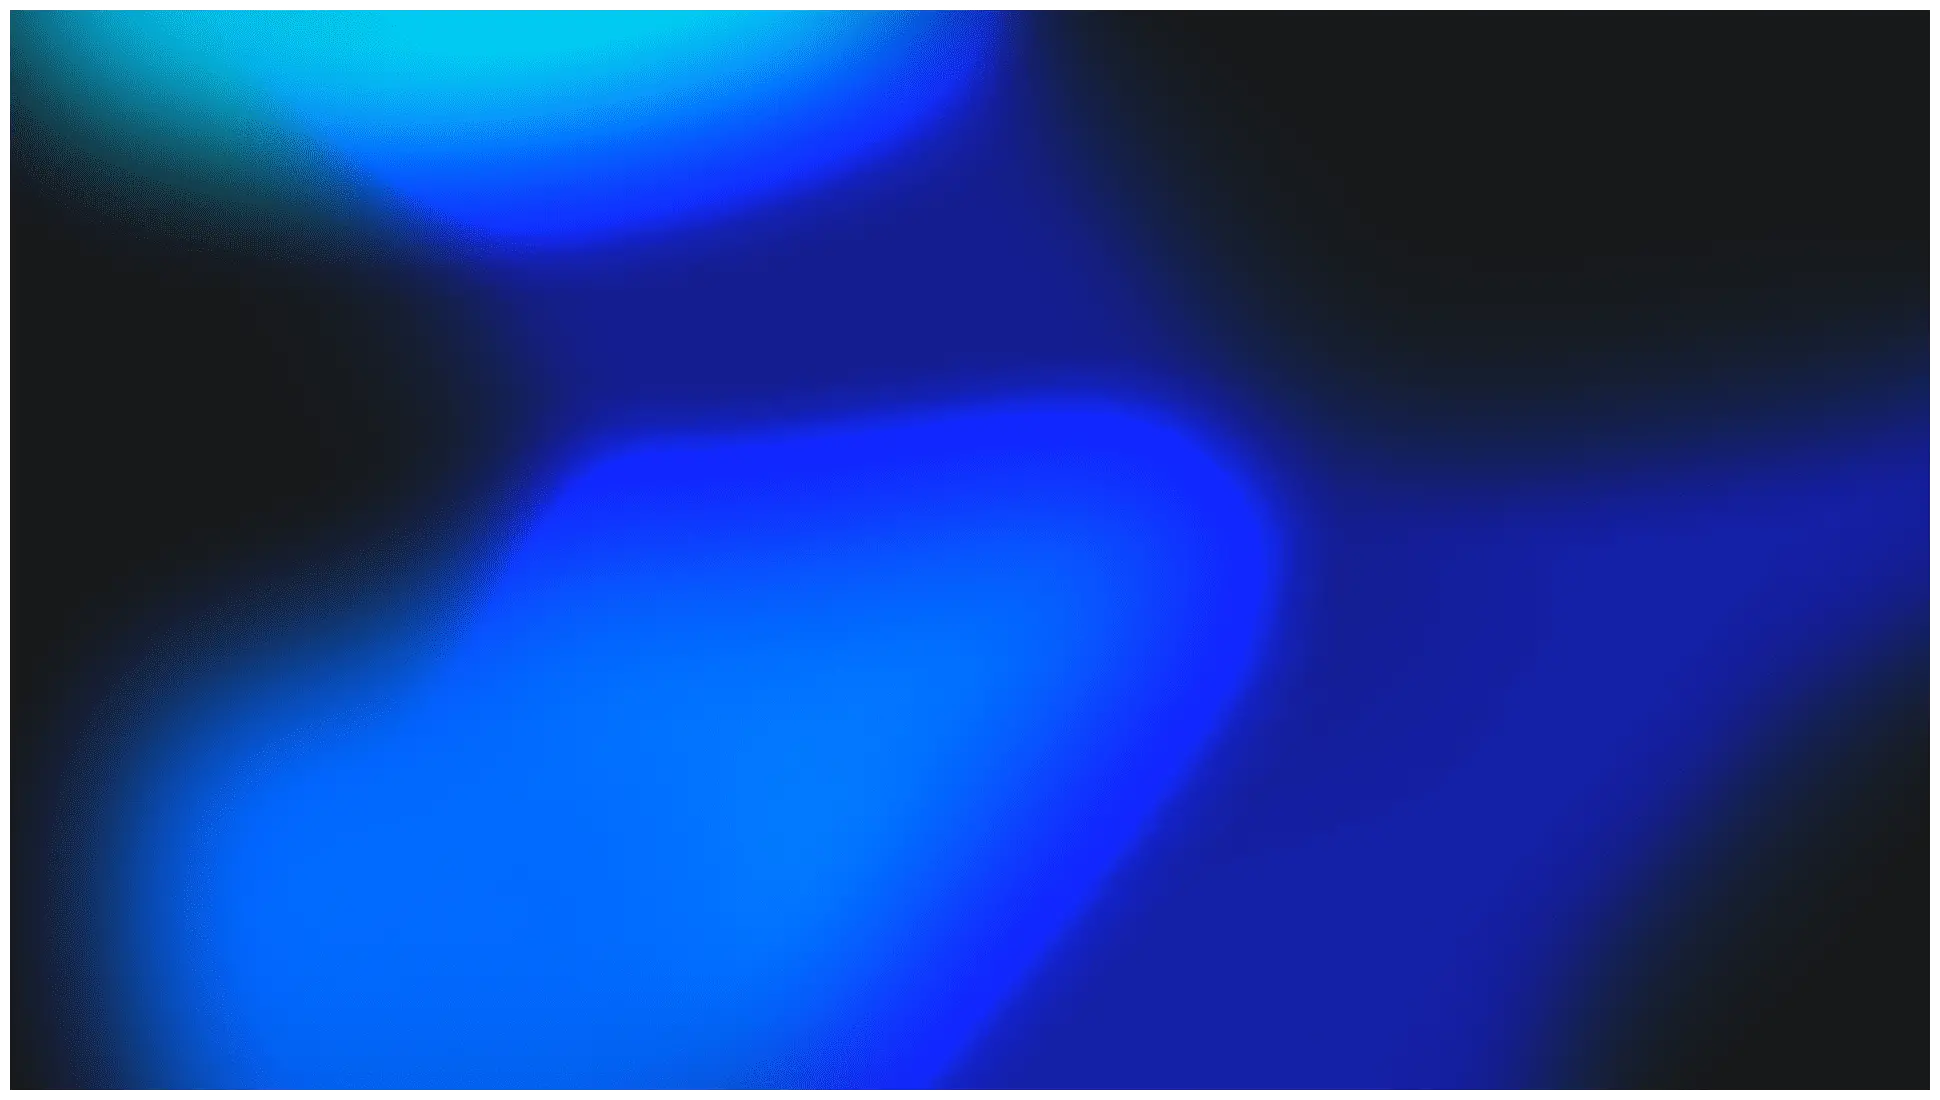
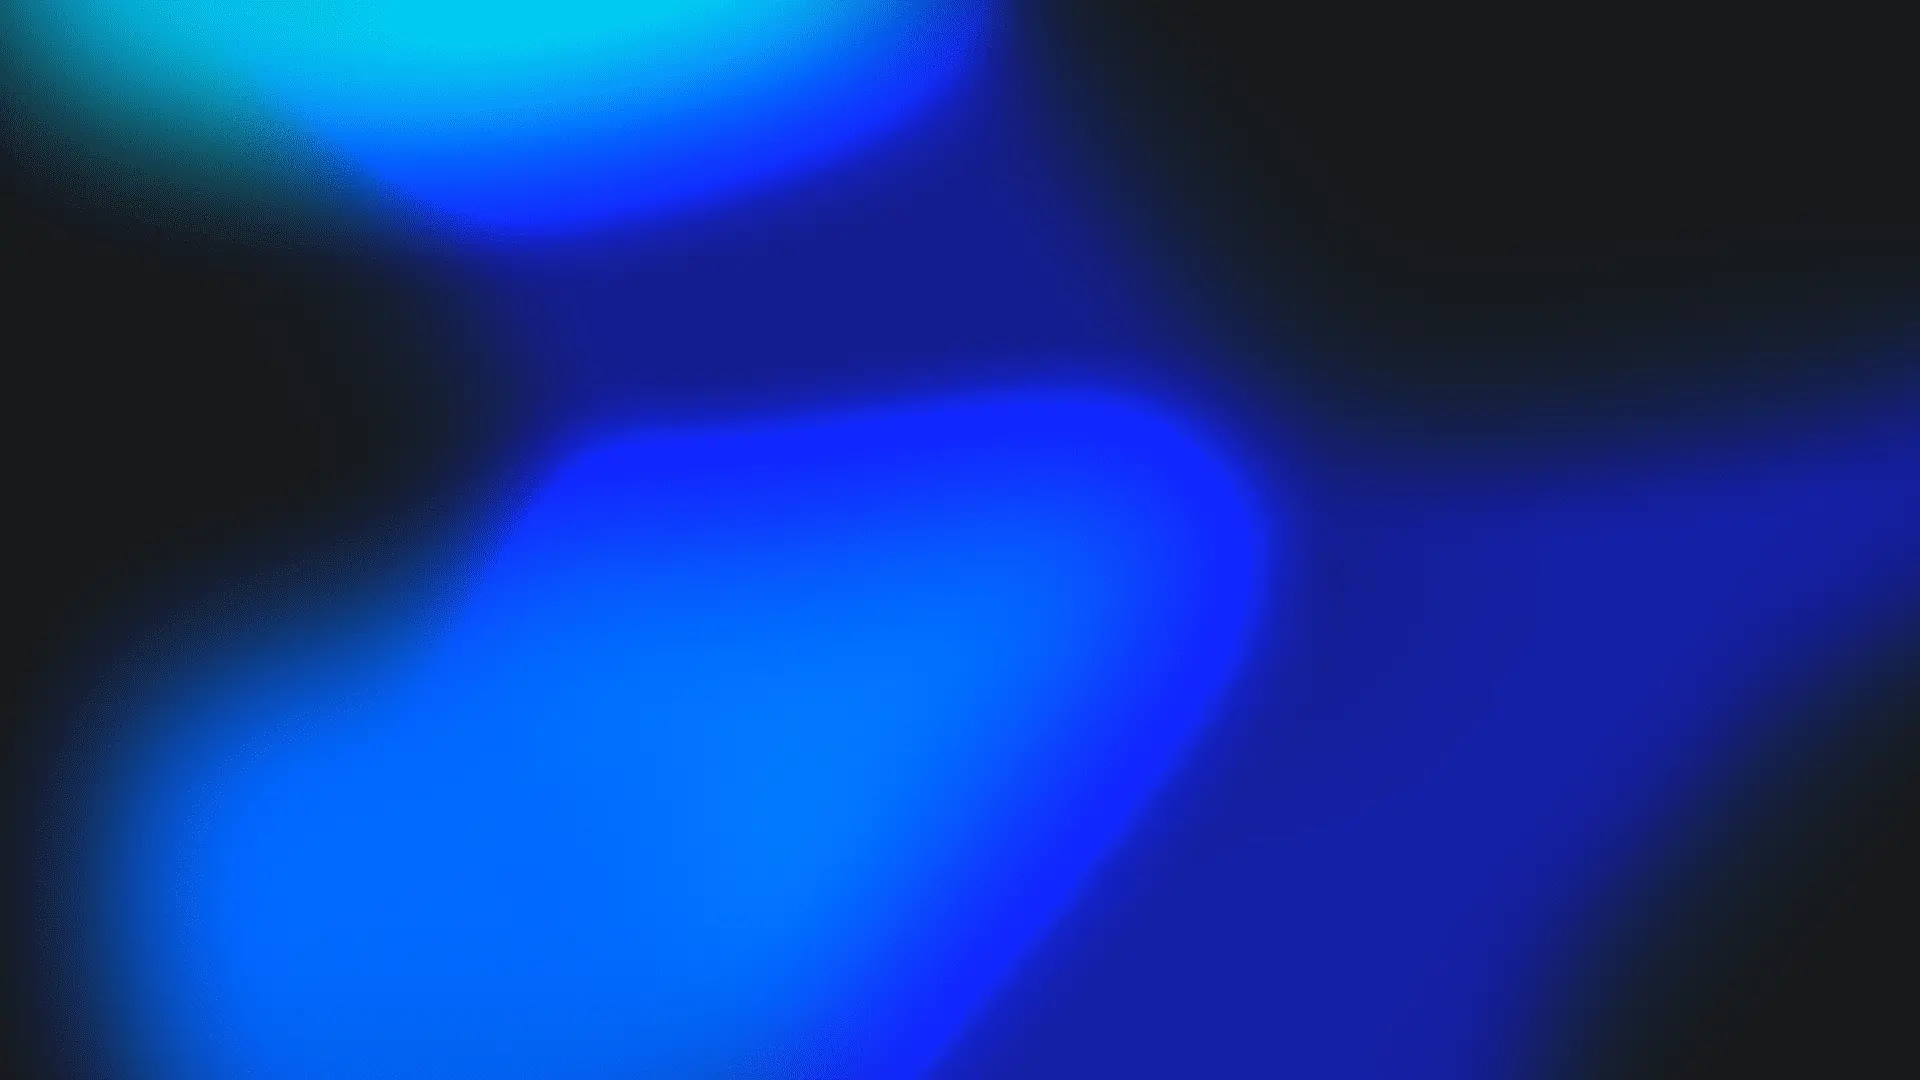
remove empty spaces from bg images

Changed region(s): [[0.0, 0.0, 1.0, 1.0], [0.125, 0.1222, 0.1875, 0.1528], [0.0938, 0.1833, 0.125, 0.2139]]

diff --git a/src/scss/common/base.scss b/src/scss/common/base.scss
@@ -18,7 +18,7 @@ body {
 	font-size: $fs-md;
 	line-height: $lh;
 	color: $black;
-	background-color: grey
+	background-color: $white
 }
 
 img {

diff --git a/src/scss/anim-bg.scss b/src/scss/anim-bg.scss
@@ -1,0 +1,5 @@
+body {
+	background-image: url( '../img/main/bg-desktop1.png' );
+	background-repeat: no-repeat;
+	background-size: cover;
+}

diff --git a/src/scss/main.scss b/src/scss/main.scss
@@ -14,3 +14,6 @@
 
 // Home page sections styles.
 @import 'sections/home/hero';
+
+// Bg animation
+@import './anim-bg.scss'
